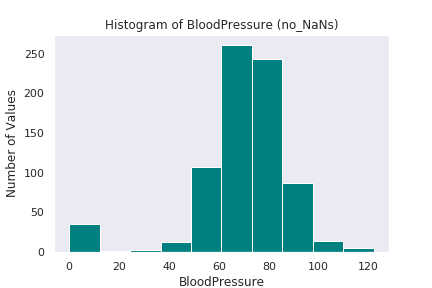
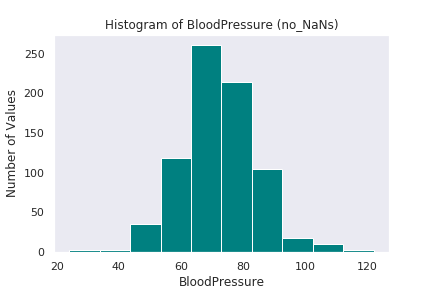
Project complete

diff --git a/GridSearchKNN_Case_Study.py b/GridSearchKNN_Case_Study.py
@@ -76,20 +76,25 @@ p=sns.heatmap(df.corr(), annot=True,cmap ='Blues')
 # %% markdown
 # **<font color='teal'> Using Sklearn, standarize the magnitude of the features by scaling the values. </font>**
 # %% codecell
+from sklearn.preprocessing import StandardScaler
+ss = StandardScaler()
 
+for column in df.columns:
+    df[column] = ss.fit_transform(df[[column]])
 # %% markdown
 # **<font color='teal'> Define the `y` variable as the `Outcome` column.</font>**
 # %% codecell
-
+X = df.drop('Outcome', axis=1)
+y = df['Outcome'].astype(int)
 # %% markdown
 # **<font color='teal'> Create a 70/30 train and test split. </font>**
 # %% codecell
-
+from sklearn.model_selection import train_test_split
+X_train, X_test, y_train, y_test = train_test_split(X, y, test_size=0.30, random_state=1111)
 # %% markdown
 # #### Using a range of neighbor values of 1-10, apply the KNearestNeighbor classifier to classify the the data.
 # %% codecell
 from sklearn.neighbors import KNeighborsClassifier
-
 
 test_scores = []
 train_scores = []
@@ -104,21 +109,28 @@ for i in range(1,10):
 # %% markdown
 # **<font color='teal'> Print the train and test scores for each iteration.</font>**
 # %% codecell
-
+print(train_scores)
+print(test_scores)
 # %% markdown
 # **<font color='teal'> Identify the number of neighbors between 1-15 that resulted in the max score in the training dataset. </font>**
 # %% codecell
-
+parameters = {'n_neighbors':range(1,16)}
+from sklearn.model_selection import GridSearchCV
+grid_search = GridSearchCV(knn, parameters)
+grid_search.fit(X_train, y_train)
+print(grid_search.best_params_)
 # %% markdown
 # **<font color='teal'> Identify the number of neighbors between 1-15 that resulted in the max score in the testing dataset. </font>**
 # %% codecell
-
+grid_search.fit(X_test, y_test)
+print(grid_search.best_params_)
 # %% markdown
 # Plot the train and test model performance by number of neighbors.
 # %% codecell
 plt.figure(figsize=(12,5))
 p = sns.lineplot(range(1,10),train_scores,marker='*',label='Train Score')
 p = sns.lineplot(range(1,10),test_scores,marker='o',label='Test Score')
+plt.savefig('figures/train_vs_test_scores')
 # %% markdown
 # **<font color='teal'> Fit and score the best number of neighbors based on the plot. </font>**
 # %% codecell
@@ -130,11 +142,16 @@ pl = confusion_matrix(y_test,y_pred)
 # %% markdown
 # **<font color='teal'> Plot the confusion matrix for the model fit above. </font>**
 # %% codecell
-
+plt.plot(pl)
+plt.title('confusion_matrix')
+plt.savefig('figures/confusion_matrix.png')
 # %% markdown
 # **<font color='teal'> Print the classification report </font>**
 # %% codecell
+from sklearn.metrics import classification_report
 
+cr = classification_report(y_test, y_pred)
+print(cr)
 # %% markdown
 # #### In the case of the K nearest neighbors algorithm, the K parameter is one of the most important parameters affecting the model performance.  The model performance isn't horrible, but what if we didn't consider a wide enough range of values in our neighbors for the KNN? An alternative to fitting a loop of models is to use a grid search to identify the proper number. It is common practice to use a grid search method for all adjustable parameters in any type of machine learning algorithm. First, you define the grid — aka the range of values — to test in the parameter being optimized, and then compare the model outcome performance based on the different values in the grid.
 # %% markdown
@@ -152,9 +169,16 @@ print("Best Score:" + str(knn_cv.best_score_))
 print("Best Parameters: " + str(knn_cv.best_params_))
 # %% markdown
 # Here you can see that the ideal number of n_neighbors for this model is 14 based on the grid search performed.
+# > Actually it's 25. However if we change the limit of parameters to 15, 14 would be the pest paramter to use.
 # %% markdown
 # **<font color='teal'> Now, following the KNN example, apply this grid search method to find the optimal number of estimators in a Randon Forest model.
 # </font>**
 # %% codecell
-
+from sklearn.ensemble import RandomForestClassifier
+param_grid = {'n_estimators': range(100)}
+rfc = RandomForestClassifier()
+rfc_cv = GridSearchCV(rfc, param_grid, cv=5)
+rfc_cv.fit(X,y)
 # %% codecell
+print("Best Score:" + str(rfc_cv.best_score_))
+print("Best Parameters: " + str(rfc_cv.best_params_))

diff --git a/sources/reference.md b/sources/reference.md
@@ -1,0 +1,13 @@
+[Omit Warnings](https://stackoverflow.com/questions/14463277/how-to-disable-python-warnings)
+
+[Sklearn's Standard Scaler](https://scikit-learn.org/stable/modules/generated/sklearn.preprocessing.StandardScaler.html)
+
+[Sklearn Test Train Split Docs](https://scikit-learn.org/stable/modules/generated/sklearn.model_selection.train_test_split.html)
+
+[Sklearn GridSearchCV Docs](https://scikit-learn.org/stable/modules/generated/sklearn.model_selection.GridSearchCV.html)
+
+[Sklearn KNearestNeighbor Docs](https://scikit-learn.org/stable/modules/generated/sklearn.neighbors.KNeighborsClassifier.html)
+
+[Sklearn Classificaiton report Docs](https://scikit-learn.org/stable/modules/generated/sklearn.metrics.classification_report.html)
+
+[Sklearn Random Forests Docs](https://scikit-learn.org/stable/modules/generated/sklearn.ensemble.RandomForestClassifier.html)
